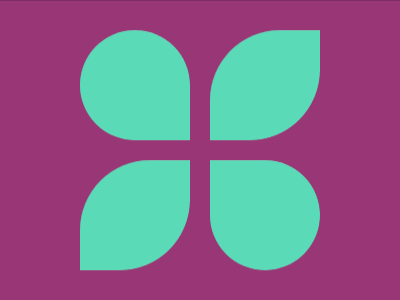
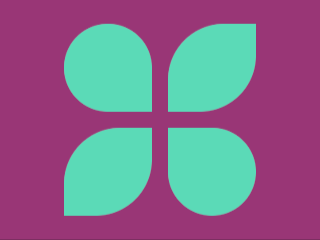
Score: 680.66, Characters: 168 (100.00% match) - CSSHub

diff --git a/README.md b/README.md
@@ -145,7 +145,7 @@
 <li><a href="./Daily%20Targets/2026-09-12/">Sep 12, 2026</a> (116 Characters)</li>
 <li><a href="./Daily%20Targets/2026-09-13/">Sep 13, 2026</a> (169 Characters)</li>
 <li><a href="./Daily%20Targets/2026-09-14/">Sep 14, 2026</a> (238 Characters)</li>
-<li><a href="./Daily%20Targets/2026-09-15/">Sep 15, 2026</a> (172 Characters)</li>
+<li><a href="./Daily%20Targets/2026-09-15/">Sep 15, 2026</a> (168 Characters)</li>
 </ul>
 </details>
 </li>

diff --git a/Daily Targets/2026-09-15/README.md b/Daily Targets/2026-09-15/README.md
@@ -22,5 +22,5 @@ Challenge: <https://cssbattle.dev/play/5ZezM7kuEUF3qoAOjCIx>
 ## Code
 
 ```html
-<img><img d><img d><img r><style>&{background:#993576;*{margin:20 70;img{background:#5ADAB8;padding:55;margin:10;border-radius:1in 1in 0}[r]{scale:-1}[d]{border-radius:64%0
+<img><img d><img d><img r><style>&{background:#993576;*{margin:5%70;img{background:#5adab8;padding:55;margin:10;border-radius:var(--a,1in 1in)0}[r]{scale:-1}[d]{--a:64%
 ```
